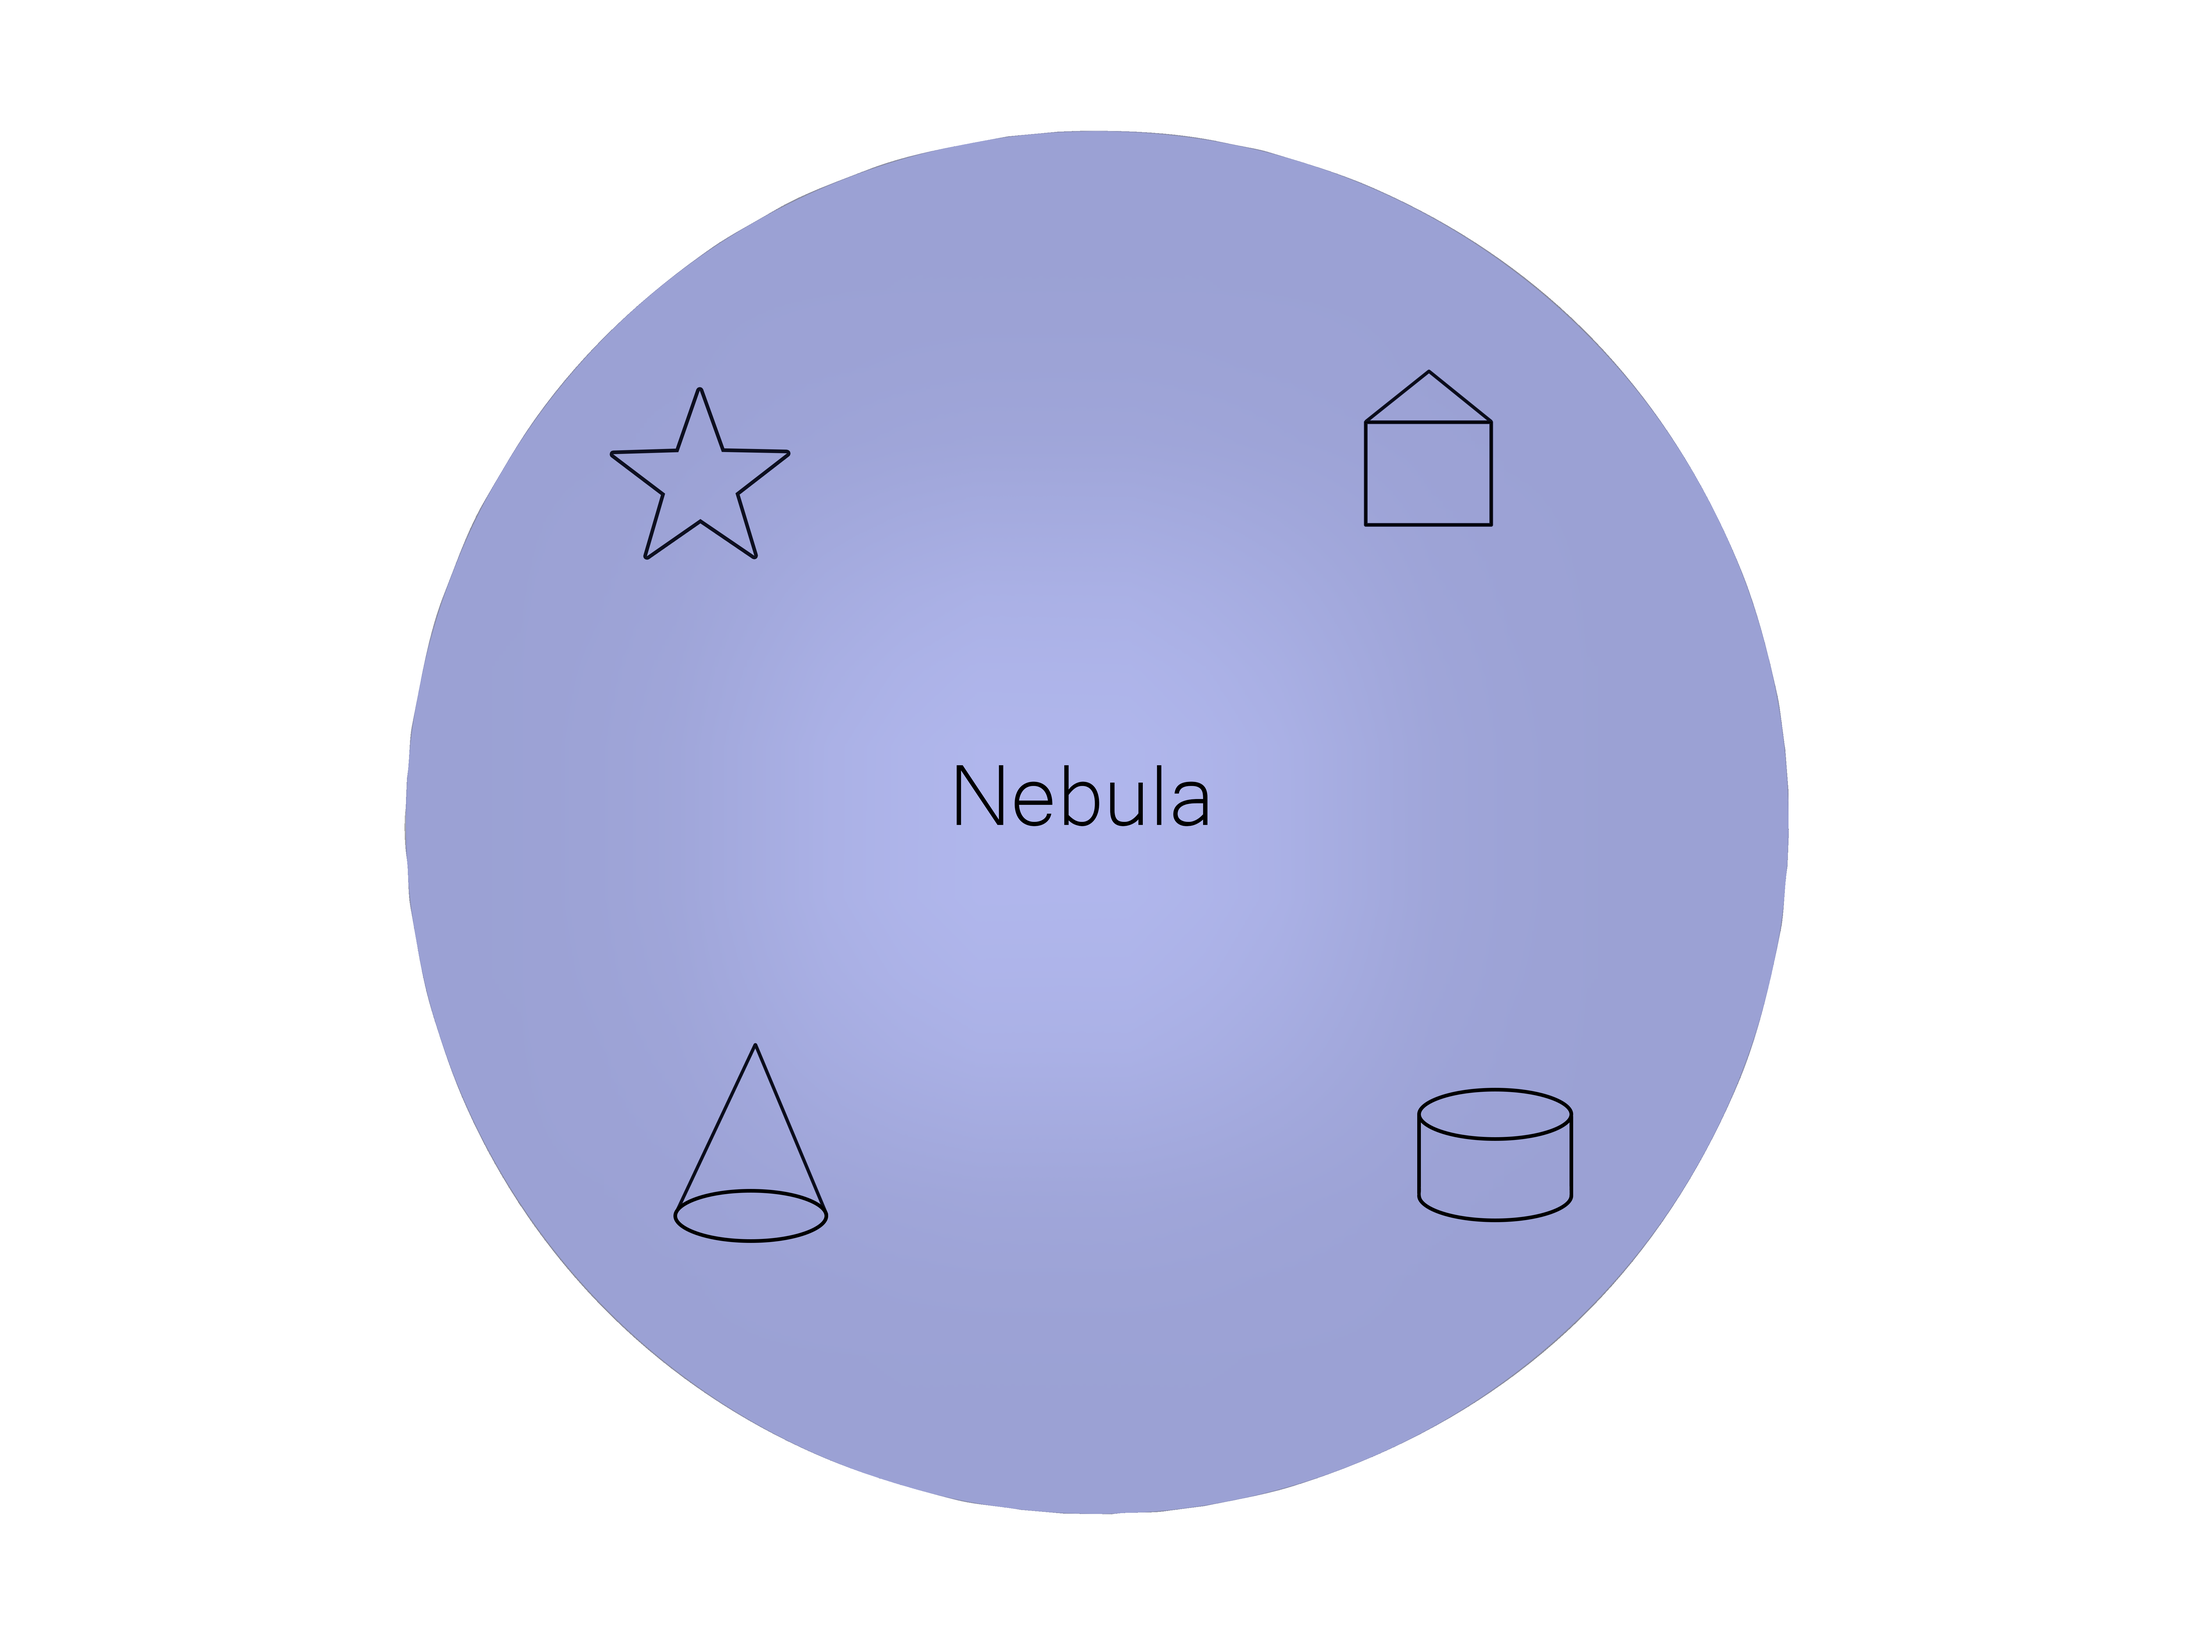
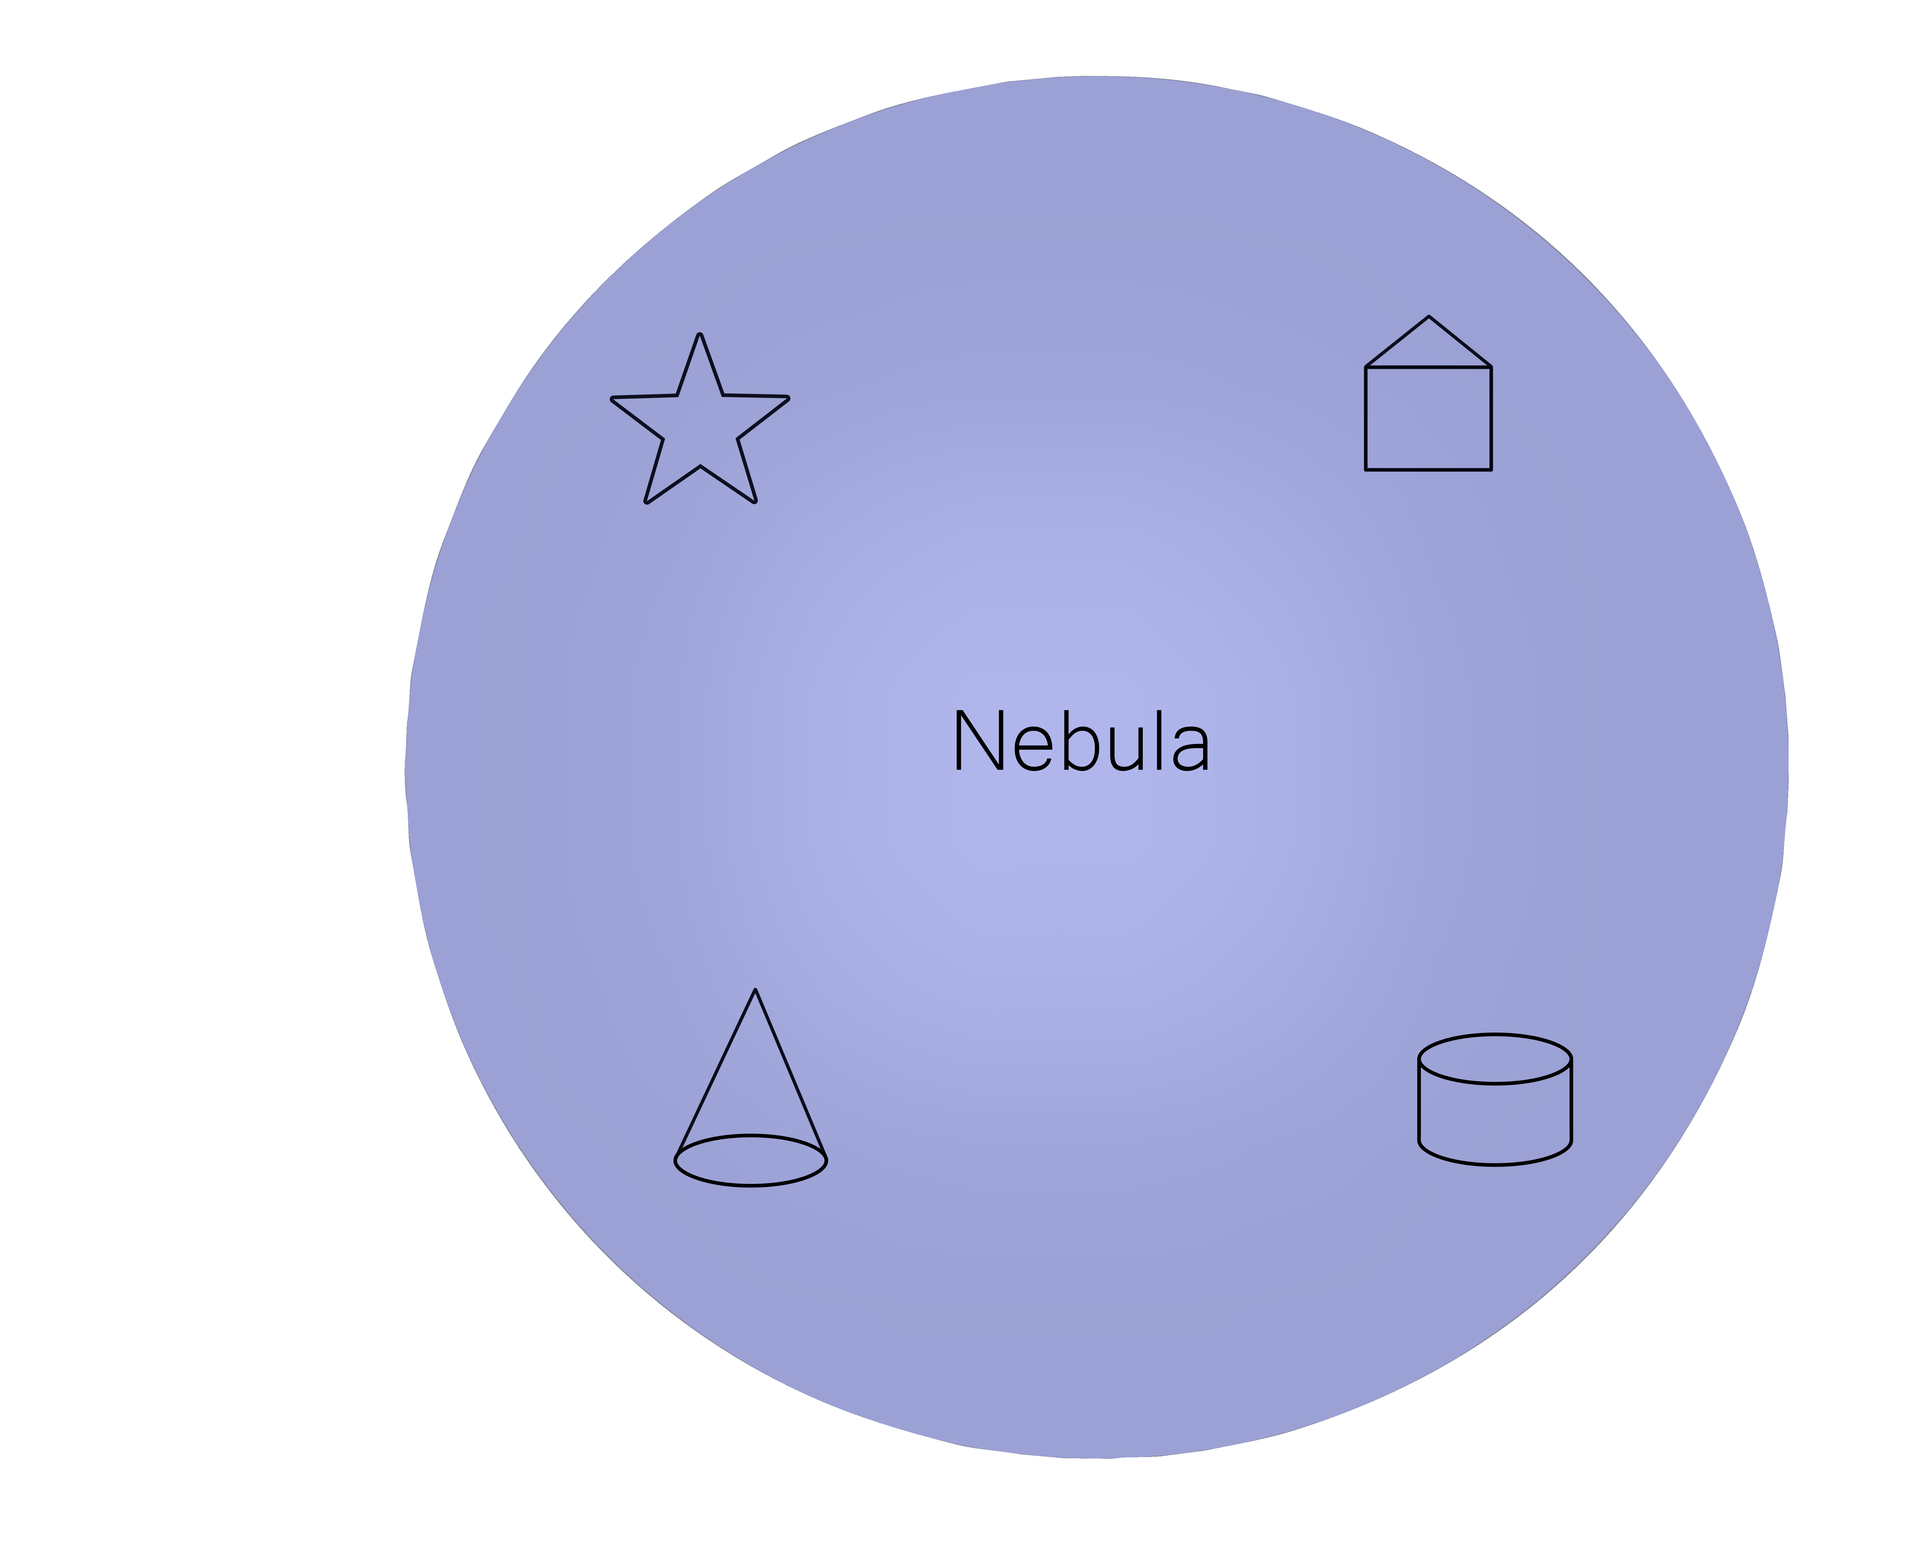
update

diff --git a/eraOne.html b/eraOne.html
@@ -19,6 +19,22 @@
     </div>
 
     <div class="row">
+        <div class="col-xs-12 col-md-12 col-lg-12">
+            <p>In the Era Cornucopia the Girl set out to find herself as if in shards of a mirror. She was so faded her shadow was hardly a spot. Thankfully the Bird was just around the corner, touching down.
+                Ever a wanderer, wings a-flap, the Bird touched down to see her and whispered:
+                <br>"Girl, where do you come from?"
+                <br>This the faraway Chorus echoed: 
+                <br>"Girl, tell us now where you come from."
+                <br>Nonplussed, the Girl readied herself to continue on her way.
+                <br>"But Girl, stay. Stay with me forever. I fly endlessly, circling the world."
+                <br>The girl was swayed but not convinced. For she had walked many miles and found no rest.
+                <br>"Bird, I love the heart of your idea. But I seek to "
+            </p>
+            <hr class="col-xs-12 col-md-10 col-lg-10">
+        </div>
+    </div>
+
+    <div class="row">
         <div class="col-xs-12 col-md-4 col-lg-4">
             <a href="page-lnr.html" class="overlaybox"><img src="Images/lnr1.jpg" class="imagebox img-fluid" alt="Lover no reason installation view"><div class="overlay"></div></a>
         </div>

diff --git a/eraTwo.html b/eraTwo.html
@@ -2,7 +2,6 @@
 <html lang="en">
   <head>
     <meta charset="utf-8">
-    <meta name="viewport" content="width=device-width, initial-scale=1">
     <link rel="stylesheet" type="text/css" href="empressstyles.css" media="all">
     <link rel="shortcut icon" href="favicon.ico" type="image/x-icon">
     <title>Era Empress</title>

diff --git a/eraThree.html b/eraThree.html
@@ -2,7 +2,6 @@
 <html lang="en">
   <head>
     <meta charset="utf-8">
-    <meta name="viewport" content="width=device-width, initial-scale=1">
     <link rel="stylesheet" type="text/css" href="soundstyles.css" media="all">
     <link rel="shortcut icon" href="favicon.ico" type="image/x-icon">
     <title>Soundscape</title>

diff --git a/eraFour.html b/eraFour.html
@@ -2,7 +2,6 @@
 <html lang="en">
   <head>
     <meta charset="utf-8">
-    <meta name="viewport" content="width=device-width, initial-scale=1">
     <link rel="stylesheet" type="text/css" href="eventstyles.css" media="all">
     <link rel="shortcut icon" href="favicon.ico" type="image/x-icon">
     <title>Event Log</title>

diff --git a/index.html b/index.html
@@ -184,6 +184,6 @@
       <a href = "soundscape.html">Soundscape</a>
       <a href = "eventlog">Event Log</a>
     </p>
-    <a href="index.html"><img src="Images/lp.png" width="1600" alt="Nebula landing page"></a>
+    <img src="Images/lp.png" width="1300" alt="Nebula landing page">
   </body>
 </html>
